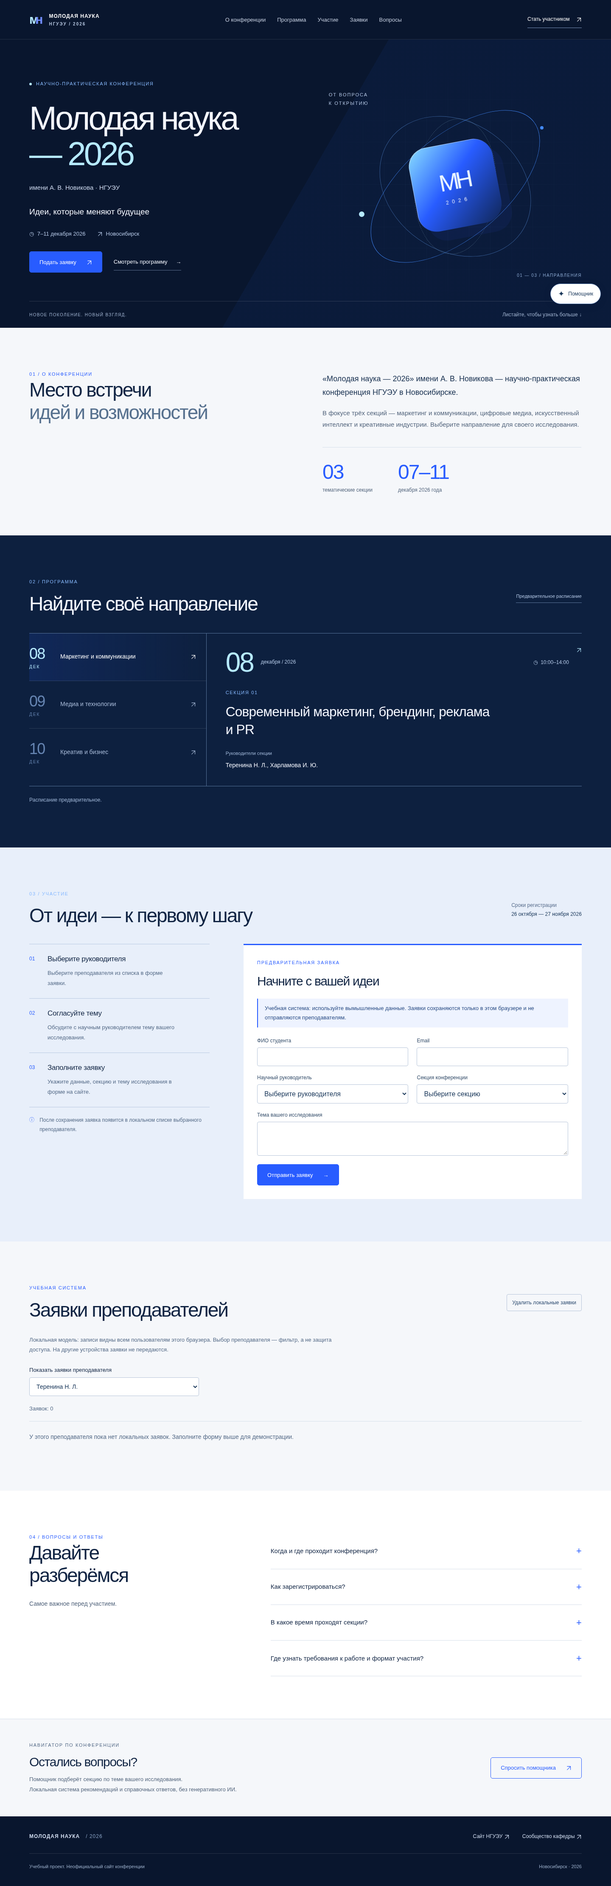
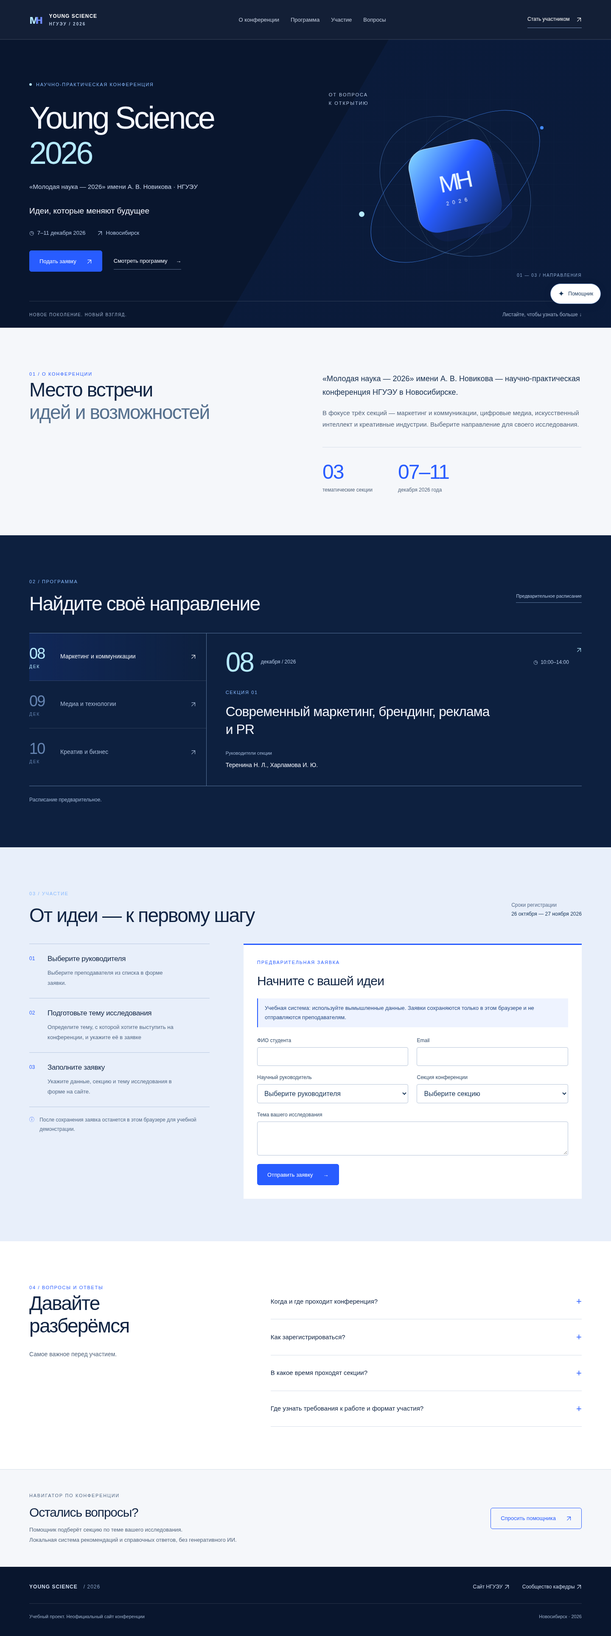
Finalize Young Science branding, sticky navigation and separate demo management page

diff --git a/src/styles.css b/src/styles.css
@@ -1,12 +1,12 @@
-@import url('https://fonts.googleapis.com/css2?family=Onest:wght@400;500;600;700&family=Space+Grotesk:wght@400;500;600&display=swap');
+@import url('https://fonts.googleapis.com/css2?family=Onest:wght@400;500;600;700&family=Manrope:wght@400;500;600;700&display=swap');
 /* Full-bleed surfaces; only their inner content has a maximum width. */
 :root{font-family:Onest,Arial,sans-serif;color:#102443;background:#f3f5f8;font-synthesis:none;--navy:#09162e;--blue:#285cff;--ice:#b6eaff;--muted:#5b6b83;--line:#d7dfea;--gutter:clamp(20px,4.8vw,92px)}
-*{box-sizing:border-box}body{margin:0}html{scroll-behavior:smooth;scroll-padding-top:24px}button,input,select,textarea{font:inherit}button,a,summary{-webkit-tap-highlight-color:transparent}button{cursor:pointer}a{color:inherit;text-decoration:none}button:focus-visible,a:focus-visible,summary:focus-visible,input:focus-visible,select:focus-visible,textarea:focus-visible{outline:3px solid #438bff;outline-offset:4px}h1,h2,h3,p{margin-top:0}h1,h2,h3{font-family:'Space Grotesk',Onest,Arial,sans-serif;font-weight:500;letter-spacing:-.045em}p{line-height:1.8}h2{font-size:clamp(28px,3.2vw,48px);line-height:1.15;margin-bottom:28px}h3{line-height:1.3}.container{width:100%;max-width:1550px;margin-inline:auto;padding-inline:var(--gutter);min-width:0}header,main,footer,main>section{width:100%;max-width:none;margin:0}header{background:var(--navy);color:#fff;border-bottom:1px solid #ffffff1c}.header-inner{min-height:92px;display:flex;align-items:center;justify-content:space-between;gap:26px}.brand{display:flex;align-items:center;gap:14px;font-size:12px;font-weight:600;letter-spacing:1px;white-space:nowrap}.brand small{display:block;font-size:10px;color:#b3c5df;letter-spacing:2px;margin-top:6px}.brand-icon{font-size:30px;letter-spacing:-8px;padding-right:8px;color:var(--ice)}.brand-icon span{color:#718cff}nav{display:flex;gap:27px;font-size:13px;color:#c4cee0}nav a:hover{color:var(--ice)}.header-link{font-size:12px;border-bottom:1px solid #7a93bb;padding:12px 0}.header-link span{margin-left:12px}.menu-toggle{display:none}
+*{box-sizing:border-box}body{margin:0}html{scroll-behavior:auto;scroll-padding-top:24px}button,input,select,textarea{font:inherit}button,a,summary{-webkit-tap-highlight-color:transparent}button{cursor:pointer}a{color:inherit;text-decoration:none}button:focus-visible,a:focus-visible,summary:focus-visible,input:focus-visible,select:focus-visible,textarea:focus-visible{outline:3px solid #438bff;outline-offset:4px}h1,h2,h3,p{margin-top:0}h1,h2,h3{font-family:Manrope,Onest,Arial,sans-serif;font-weight:500;letter-spacing:-.045em}p{line-height:1.8}h2{font-size:clamp(28px,3.2vw,48px);line-height:1.15;margin-bottom:28px}h3{line-height:1.3}.container{width:100%;max-width:1550px;margin-inline:auto;padding-inline:var(--gutter);min-width:0}header,main,footer,main>section{width:100%;max-width:none;margin:0}header{background:var(--navy);color:#fff;border-bottom:1px solid #ffffff1c}.header-inner{min-height:92px;display:flex;align-items:center;justify-content:space-between;gap:26px}.brand{display:flex;align-items:center;gap:14px;font-size:12px;font-weight:600;letter-spacing:1px;white-space:nowrap}.brand small{display:block;font-size:10px;color:#b3c5df;letter-spacing:2px;margin-top:6px}.brand-icon{font-size:30px;letter-spacing:-8px;padding-right:8px;color:var(--ice)}.brand-icon span{color:#718cff}nav{display:flex;gap:27px;font-size:13px;color:#c4cee0}nav a:hover{color:var(--ice)}.header-link{font-size:12px;border-bottom:1px solid #7a93bb;padding:12px 0}.header-link span{margin-left:12px}.menu-toggle{display:none}
 .hero{background:var(--navy);color:#f4f7ff;position:relative;overflow:hidden}.hero:before{content:'';position:absolute;inset:0;background:linear-gradient(120deg,transparent 50%,#153f941f 50%)}.hero .section-inner{position:relative;padding-top:76px}.hero-layout{display:grid;grid-template-columns:1.15fr 1fr;align-items:center;gap:20px;min-height:540px}.hero-copy{z-index:2;position:relative;padding-bottom:48px}.eyebrow{display:flex;align-items:center;gap:10px;font-size:11px;letter-spacing:1.7px;font-weight:500;line-height:1.8;color:#88baff}.dot{height:6px;width:6px;border-radius:50%;background:var(--ice)}h1{font-size:clamp(48px,5.4vw,86px);line-height:1.08;max-width:760px;margin:28px 0 24px;font-weight:500;letter-spacing:-.06em}.year{display:block;color:var(--ice);font-weight:400}.dedication{font-size:15px;color:#c9d5eb;margin-bottom:30px}.hero-description{font-size:19px;color:#f4f7ff;line-height:1.5;margin-bottom:30px}.hero-meta{display:flex;gap:28px;flex-wrap:wrap;font-size:13px;color:#b4c7e5;margin-bottom:34px}.hero-actions{display:flex;align-items:center;gap:27px;flex-wrap:wrap}.button{display:inline-flex;align-items:center;justify-content:space-between;gap:24px;min-height:50px;padding:15px 23px;border:1px solid var(--blue);border-radius:5px;background:var(--blue);color:white;font-size:13px;font-weight:500;transition:background .2s,transform .2s}.button:hover{background:#1646dc;transform:translateY(-2px)}.button:disabled{background:#c5cfdf;border-color:#c5cfdf;color:#405370;cursor:not-allowed;transform:none}.text-link{font-size:13px;border-bottom:1px solid #5a6d8d;padding-block:12px}.text-link span{margin-left:16px}.hero-bottom{border-top:1px solid #ffffff25;display:flex;align-items:center;justify-content:space-between;gap:20px;padding:24px 0;color:#9fb2cf;font-size:10px;letter-spacing:1.4px}.hero-bottom a{letter-spacing:0;font-size:12px}
 /* An offset orbital instrument, rather than an isolated decorative planet. */
-.science-art{height:490px;position:relative;min-width:0;isolation:isolate}.signal-grid{position:absolute;inset:-60px -70px;background-image:linear-gradient(#8fb4ed10 1px,transparent 1px),linear-gradient(90deg,#8fb4ed10 1px,transparent 1px);background-size:50px 50px;mask-image:radial-gradient(ellipse,#000,transparent 70%)}.signal-ring{position:absolute;width:380px;height:380px;left:50%;top:50%;border:1px solid #6ba9ff75;border-radius:50%;transform:translate(-50%,-50%) rotate(-30deg) scaleY(.65)}.ring-a{width:480px;height:480px;border-color:#438bff;transform:translate(-50%,-50%) rotate(-40deg) scaleY(.5)}.ring-b{transform:translate(-50%,-50%) rotate(35deg) scaleY(.8)}.ring-c{width:320px;height:320px;transform:translate(-50%,-50%) rotate(95deg) scaleY(.6);border-style:dashed;border-color:#b6eaff60}.signal-core{position:absolute;left:50%;top:50%;width:200px;height:200px;transform:translate(-50%,-50%) rotate(-12deg);border-radius:45px;background:linear-gradient(135deg,#8adfff,#285cff 45%,#102656);display:flex;flex-direction:column;align-items:center;justify-content:center;box-shadow:inset 1px 1px #ffffff80,20px 25px 0 #285cff12}.signal-core span{font-family:'Space Grotesk',Onest,sans-serif;font-size:56px;font-weight:400;letter-spacing:-7px;color:#ecf8ff}.signal-core small{font-size:12px;letter-spacing:8px;margin-top:8px}.signal-node{position:absolute;width:13px;height:13px;background:var(--ice);border-radius:50%}.node-a{left:12%;top:62%}.node-b{right:15%;top:21%;width:8px;height:8px;background:#438bff}.signal-label{position:absolute;left:0;top:20px;font-size:11px;color:#b4c7e5;line-height:1.8;letter-spacing:2px}.signal-index{position:absolute;bottom:30px;right:0;color:#8aa7cf;font-size:10px;letter-spacing:1.5px}.signal-core{animation:instrument 10s ease-in-out infinite}@keyframes instrument{50%{transform:translate(-50%,-54%) rotate(-8deg)}}
-.section .section-inner{padding-block:100px}.about{background:#f5f7fa}.about .section-inner{display:grid;grid-template-columns:1fr 1fr;gap:80px}.about .eyebrow,.faq .eyebrow{color:#285cff}.about h2{max-width:520px}.about h2 span{color:#57718f}.about-text{padding-top:4px;max-width:610px}.about-text p{color:#52647c;font-size:15px}.about-text p:first-child{color:#152e4e;font-size:18px}.stats{display:flex;gap:60px;margin-top:40px;padding-top:30px;border-top:1px solid var(--line)}.stats strong{display:block;color:#285cff;font-family:'Space Grotesk',Onest,sans-serif;font-size:48px;font-weight:400;letter-spacing:-2px}.stats span{display:block;font-size:12px;color:#52647c;margin-top:8px}
-.program{background:#0d203f;color:#f4f7ff}.section-heading{display:flex;justify-content:space-between;align-items:center;gap:30px;margin-bottom:32px}.section-heading h2{margin:15px 0 0;max-width:650px}.badge{font-size:11px;padding:9px 0;border-bottom:1px solid #5a759b;color:#b5c9e7;white-space:nowrap}.program-layout{display:grid;grid-template-columns:minmax(220px,.85fr) minmax(0,1.8fr);border-top:1px solid #56739a;border-bottom:1px solid #56739a;margin-top:42px}.tabs{display:flex;flex-direction:column;border-right:1px solid #56739a}.tabs button{display:flex;align-items:center;gap:22px;width:100%;min-height:112px;padding:22px 24px 22px 0;text-align:left;border:0;border-bottom:1px solid #ffffff20;background:none;color:#a8bbd9;transition:color .2s,background .2s}.tabs button:last-child{border-bottom:0}.tabs button[aria-selected=true]{color:#fff;background:linear-gradient(90deg,#285cff22,transparent)}.tab-date{font-family:'Space Grotesk',Onest,sans-serif;font-size:36px;letter-spacing:-2px;font-weight:400;min-width:51px;color:#6584b1}.tab-date small{font-family:Onest,sans-serif;font-size:10px;display:block;letter-spacing:2px;margin-top:4px}.tabs button[aria-selected=true] .tab-date{color:var(--ice)}.tab-label{font-size:14px;line-height:1.7}.tabs b{font-weight:400;margin-left:auto}.program-card{display:flex;flex-direction:column;gap:30px;padding:36px 0 36px 45px;position:relative;min-width:0;animation:panel .25s ease}.date-block{display:flex;align-items:center;flex-wrap:wrap;gap:18px;color:#b4c9e7;font-size:12px;padding-right:30px}.date-block strong{font-family:'Space Grotesk',Onest,sans-serif;font-weight:400;font-size:64px;line-height:1;color:var(--ice);letter-spacing:-3px}.date-block>span{max-width:100px;line-height:1.7}.date-block>div{margin-left:auto}.program-detail{max-width:640px;min-width:0}.program-detail h3{font-size:clamp(23px,2.2vw,32px);margin:15px 0 25px;letter-spacing:-.025em}.leaders>span{font-size:11px;color:#9fb6d7}.leaders p{font-size:14px;margin:8px 0 0}.card-arrow{position:absolute;right:0;top:30px;color:var(--ice)}.note{font-size:12px;color:#9fb6d7;line-height:1.8;margin:22px 0 0}@keyframes panel{from{opacity:.5}to{opacity:1}}
+.science-art{height:490px;position:relative;min-width:0;isolation:isolate}.signal-grid{position:absolute;inset:-60px -70px;background-image:linear-gradient(#8fb4ed10 1px,transparent 1px),linear-gradient(90deg,#8fb4ed10 1px,transparent 1px);background-size:50px 50px;mask-image:radial-gradient(ellipse,#000,transparent 70%)}.signal-ring{position:absolute;width:380px;height:380px;left:50%;top:50%;border:1px solid #6ba9ff75;border-radius:50%;transform:translate(-50%,-50%) rotate(-30deg) scaleY(.65)}.ring-a{width:480px;height:480px;border-color:#438bff;transform:translate(-50%,-50%) rotate(-40deg) scaleY(.5)}.ring-b{transform:translate(-50%,-50%) rotate(35deg) scaleY(.8)}.ring-c{width:320px;height:320px;transform:translate(-50%,-50%) rotate(95deg) scaleY(.6);border-style:dashed;border-color:#b6eaff60}.signal-core{position:absolute;left:50%;top:50%;width:200px;height:200px;transform:translate(-50%,-50%) rotate(-12deg);border-radius:45px;background:linear-gradient(135deg,#8adfff,#285cff 45%,#102656);display:flex;flex-direction:column;align-items:center;justify-content:center;box-shadow:inset 1px 1px #ffffff80,20px 25px 0 #285cff12}.signal-core span{font-family:Manrope,Onest,sans-serif;font-size:56px;font-weight:400;letter-spacing:-7px;color:#ecf8ff}.signal-core small{font-size:12px;letter-spacing:8px;margin-top:8px}.signal-node{position:absolute;width:13px;height:13px;background:var(--ice);border-radius:50%}.node-a{left:12%;top:62%}.node-b{right:15%;top:21%;width:8px;height:8px;background:#438bff}.signal-label{position:absolute;left:0;top:20px;font-size:11px;color:#b4c7e5;line-height:1.8;letter-spacing:2px}.signal-index{position:absolute;bottom:30px;right:0;color:#8aa7cf;font-size:10px;letter-spacing:1.5px}.signal-core{animation:instrument 10s ease-in-out infinite}@keyframes instrument{50%{transform:translate(-50%,-54%) rotate(-8deg)}}
+.section .section-inner{padding-block:100px}.about{background:#f5f7fa}.about .section-inner{display:grid;grid-template-columns:1fr 1fr;gap:80px}.about .eyebrow,.faq .eyebrow{color:#285cff}.about h2{max-width:520px}.about h2 span{color:#57718f}.about-text{padding-top:4px;max-width:610px}.about-text p{color:#52647c;font-size:15px}.about-text p:first-child{color:#152e4e;font-size:18px}.stats{display:flex;gap:60px;margin-top:40px;padding-top:30px;border-top:1px solid var(--line)}.stats strong{display:block;color:#285cff;font-family:Manrope,Onest,sans-serif;font-size:48px;font-weight:400;letter-spacing:-2px}.stats span{display:block;font-size:12px;color:#52647c;margin-top:8px}
+.program{background:#0d203f;color:#f4f7ff}.section-heading{display:flex;justify-content:space-between;align-items:center;gap:30px;margin-bottom:32px}.section-heading h2{margin:15px 0 0;max-width:650px}.badge{font-size:11px;padding:9px 0;border-bottom:1px solid #5a759b;color:#b5c9e7;white-space:nowrap}.program-layout{display:grid;grid-template-columns:minmax(220px,.85fr) minmax(0,1.8fr);border-top:1px solid #56739a;border-bottom:1px solid #56739a;margin-top:42px}.tabs{display:flex;flex-direction:column;border-right:1px solid #56739a}.tabs button{display:flex;align-items:center;gap:22px;width:100%;min-height:112px;padding:22px 24px 22px 0;text-align:left;border:0;border-bottom:1px solid #ffffff20;background:none;color:#a8bbd9;transition:color .2s,background .2s}.tabs button:last-child{border-bottom:0}.tabs button[aria-selected=true]{color:#fff;background:linear-gradient(90deg,#285cff22,transparent)}.tab-date{font-family:Manrope,Onest,sans-serif;font-size:36px;letter-spacing:-2px;font-weight:400;min-width:51px;color:#6584b1}.tab-date small{font-family:Onest,sans-serif;font-size:10px;display:block;letter-spacing:2px;margin-top:4px}.tabs button[aria-selected=true] .tab-date{color:var(--ice)}.tab-label{font-size:14px;line-height:1.7}.tabs b{font-weight:400;margin-left:auto}.program-card{display:flex;flex-direction:column;gap:30px;padding:36px 0 36px 45px;position:relative;min-width:0;animation:panel .25s ease}.date-block{display:flex;align-items:center;flex-wrap:wrap;gap:18px;color:#b4c9e7;font-size:12px;padding-right:30px}.date-block strong{font-family:Manrope,Onest,sans-serif;font-weight:400;font-size:64px;line-height:1;color:var(--ice);letter-spacing:-3px}.date-block>span{max-width:100px;line-height:1.7}.date-block>div{margin-left:auto}.program-detail{max-width:640px;min-width:0}.program-detail h3{font-size:clamp(23px,2.2vw,32px);margin:15px 0 25px;letter-spacing:-.025em}.leaders>span{font-size:11px;color:#9fb6d7}.leaders p{font-size:14px;margin:8px 0 0}.card-arrow{position:absolute;right:0;top:30px;color:var(--ice)}.note{font-size:12px;color:#9fb6d7;line-height:1.8;margin:22px 0 0}@keyframes panel{from{opacity:.5}to{opacity:1}}
 #participate{background:#e8effa}.registration{font-size:12px;color:#586d8c;line-height:1.8}.registration strong{font-weight:500;color:#183659}.participation-layout{display:grid;grid-template-columns:minmax(220px,.8fr) minmax(0,1.5fr);gap:80px;align-items:start;margin-top:40px}.steps{display:flex;flex-direction:column}.steps article{position:relative;border-top:1px solid #b9c9e2;padding:24px 0 24px 43px}.step-num{position:absolute;left:0;top:27px;color:#285cff;font-size:12px}.step-arrow{display:none}.steps h3{font-family:Onest,sans-serif;font-size:17px;letter-spacing:-.02em;margin:0 0 10px}.steps p{font-size:13px;color:#536986;max-width:300px;margin:0}.info-strip{display:flex;gap:12px;font-size:12px;color:#536986;line-height:1.8;border-top:1px solid #b9c9e2;padding-top:20px}.info-strip>span{color:#285cff}.application-card{background:#fff;border-top:3px solid #285cff;padding:32px;min-width:0}.application-card h3{font-size:30px;margin:13px 0 22px}.application-card .eyebrow{color:#285cff}.demo-notice{padding:12px 16px;background:#eef3ff;color:#274a83;border-left:2px solid #285cff;font-size:13px;line-height:1.7}.application-fields{border:0;padding:0;margin:24px 0 0;min-width:0;display:grid;grid-template-columns:minmax(0,1fr) minmax(0,1fr);gap:20px}.application-field{display:flex;flex-direction:column;gap:9px;font-size:12px;color:#344d6a;min-width:0}.application-field input,.application-field select,.application-field textarea{font:inherit;font-size:16px;width:100%;min-width:0;max-width:100%;padding:12px;border:1px solid #b6c4d9;border-radius:4px;background:#fff;color:#183659}.application-field textarea{resize:vertical}.application-fields:disabled input,.application-fields:disabled select,.application-fields:disabled textarea{background:#f5f7fa;color:#6d7d91}.full-width{grid-column:1/-1}.consent{display:flex;align-items:flex-start;gap:12px;font-size:12px;line-height:1.8;color:#52647c}.consent input{width:18px;height:18px;flex-shrink:0;accent-color:#285cff}.form-help,.form-status{font-size:12px;line-height:1.8;color:#405f85;overflow-wrap:anywhere}.form-help a{text-decoration:underline}.field-error{color:#9d2346;font-size:12px;line-height:1.7}.field-error:empty,.form-status:empty,.form-help:empty{display:none}.application-form [aria-invalid=true]{border-color:#ad3452}.application-form .button{width:fit-content;max-width:100%;text-align:left}.application-dialog{background:#fff;color:#102443;border:0;border-top:4px solid #285cff;padding:32px;width:min(450px,calc(100% - 32px))}.application-dialog::backdrop{background:#09162ed9}.application-dialog h3{font-size:28px}.application-dialog p{font-size:14px;line-height:1.8}
 .faq{background:#fff}.faq .section-inner{display:grid;grid-template-columns:1fr 1.5fr;gap:80px}.faq p{font-size:14px;color:#52647c}.faq-list details{border-bottom:1px solid var(--line)}summary{list-style:none;cursor:pointer;display:flex;justify-content:space-between;align-items:center;gap:20px;padding:24px 0;font-size:15px;line-height:1.6}summary::-webkit-details-marker{display:none}summary span{font-size:22px;font-weight:400;color:#285cff}details[open] summary span{transform:rotate(45deg)}details p{margin:0 25px 24px 0;max-width:650px}.assistant-banner{background:#f5f7fa;border-top:1px solid var(--line)}.assistant-banner .section-inner{display:flex;align-items:center;justify-content:space-between;gap:40px;padding-block:52px}.assistant-banner .eyebrow{color:#536986}.assistant-banner h2{font-size:30px;margin:12px 0}.assistant-banner p{font-size:13px;color:#52647c;max-width:650px;margin-bottom:0}.assistant-banner .button{flex-shrink:0;background:none;color:#285cff;border-color:#285cff}.assistant-banner .button:hover{background:#e8effa}
 footer{background:var(--navy);color:#d2def1}.footer-inner{display:flex;align-items:center;justify-content:space-between;flex-wrap:wrap;gap:32px;padding-block:40px}.footer-links{display:flex;gap:30px;font-size:12px}.footer-year{font-weight:400;color:#8aa3c5}.footer-bottom{width:100%;display:flex;justify-content:space-between;gap:20px;border-top:1px solid #ffffff20;padding-top:24px;font-size:11px;color:#9cb0cb}
@@ -19,3 +19,13 @@ footer{background:var(--navy);color:#d2def1}.footer-inner{display:flex;align-ite
 @media(prefers-reduced-motion:reduce){html{scroll-behavior:auto}*,*:before,*:after{animation:none!important;transition:none!important}}
 
 .applications{background:#f5f7fa}.applications .eyebrow{color:#285cff}.applications-notice{max-width:760px;color:#536986;font-size:13px}.supervisor-filter{display:flex;flex-direction:column;gap:10px;font-size:13px;max-width:400px;margin-top:28px}.supervisor-filter select,.applications-table select{background:#fff;border:1px solid #b6c4d9;color:#183659;padding:12px;border-radius:4px;min-width:0;width:100%;font-size:14px}.applications-count{font-size:13px;color:#536986;margin:18px 0}.clear-applications{border:1px solid #b6c4d9;background:none;color:#29486e;padding:12px;border-radius:4px;font-size:12px}.empty-applications{border-top:1px solid var(--line);padding-top:24px;font-size:14px;color:#536986}.applications-table{border-collapse:collapse;width:100%;table-layout:fixed;font-size:13px}.applications-table th{text-align:left;font-weight:500;padding:15px;border-bottom:2px solid #b6c4d9;color:#536986}.applications-table td{padding:20px 15px;border-bottom:1px solid var(--line);vertical-align:top;overflow-wrap:anywhere;line-height:1.7}.applications-table td strong,.applications-table td span,.applications-table td small{display:block}.applications-table td strong{font-weight:500}.applications-table td span{color:#536986;font-size:12px;margin-top:8px}.applications-table td small{color:#536986;font-size:10px;margin-top:8px}.applications-table th:nth-child(1){width:25%}.applications-table th:nth-child(2){width:35%}.applications-table th:nth-child(3){width:18%}.applications-table th:nth-child(4){width:22%}@media(max-width:768px){.applications-table,.applications-table tbody,.applications-table tr,.applications-table td{display:block;width:100%}.applications-table thead{position:absolute;clip-path:inset(50%);width:1px;height:1px;overflow:hidden}.applications-table tr{padding:18px;background:#fff;border-top:2px solid #285cff;margin-bottom:18px}.applications-table td{padding:12px 0;border-bottom:1px solid var(--line)}.applications-table td:before{content:attr(data-label);display:block;color:#536986;font-size:11px;margin-bottom:8px}.applications-table td:last-child{border-bottom:0}.applications-table td small{font-size:11px}.clear-applications{font-size:12px}}
+
+/* Final typography and sticky navigation share the same layout system. */
+html{scroll-padding-top:calc(var(--header-height,92px) + 20px)}
+header{position:sticky;top:0;z-index:20;background:#09162ef5;box-shadow:0 1px 0 #ffffff14}
+h1{font-weight:500;font-size:clamp(46px,5.1vw,80px);line-height:1.12;letter-spacing:-.055em}
+h2{font-weight:500;letter-spacing:-.04em}h3{font-weight:500;letter-spacing:-.025em}
+.dedication{max-width:560px;line-height:1.8}.chat{z-index:40}.chat-trigger{z-index:30}
+.manage-intro{background:#e8effa;padding-block:55px}.manage-intro h1{font-size:clamp(30px,4vw,48px);margin:18px 0}.manage-intro p{max-width:720px;color:#52647c;font-size:14px;margin-bottom:0}.manage-footer{min-height:160px}
+@media(max-width:768px){h1{font-size:clamp(43px,8vw,62px)}header nav{max-height:calc(100dvh - 100px);overflow-y:auto}.header-inner{min-height:80px}.manage-intro{padding-block:36px}.manage-intro h1{font-size:32px}}
+@media(max-width:768px){header nav{position:absolute;top:100%;left:0;margin-top:0;padding:0 var(--gutter) 18px;background:#09162e;border-bottom:1px solid #577196;box-shadow:0 12px 24px #09162e26}}

diff --git a/src/main.jsx b/src/main.jsx
@@ -2,13 +2,14 @@ import React, { useState, useRef, useEffect } from 'react';
 import { createRoot } from 'react-dom/client';
 import './styles.css';
 import ApplicationForm from './ApplicationForm.jsx';
-import ApplicationsPanel from './ApplicationsPanel.jsx';
+import { useStickyHeader } from './useStickyHeader.js';
 import { sections, faq } from './conference.js';
 import { answer } from './assistant.js';
 
 function Arrow(){return <svg className="arrow-icon" viewBox="0 0 16 16" fill="none" aria-hidden="true"><path d="M3 13 13 3M3 3h10v10" stroke="currentColor" strokeWidth="1.4"/></svg>;}
 const prompts = ['Как зарегистрироваться?', 'Какие есть секции?', 'Когда проходит конференция?', 'Помоги выбрать секцию'];
 function App(){
+ useStickyHeader();
  const [menuOpen,setMenuOpen]=useState(false);
  const menuTrigger=useRef(null);
  const [active,setActive]=useState(0), [open,setOpen]=useState(false), [input,setInput]=useState('');
@@ -20,16 +21,15 @@ function App(){
  function send(q){if(!q.trim())return;setMessages(m=>[...m,{role:'user',text:q.trim()},{role:'bot',text:answer(q)}]);setInput('');field.current?.focus();}
  const s=sections[active];
  return <>
- <header><div className="container header-inner"><a className="brand" href="#home" aria-label="Молодая наука — на главную"><span className="brand-icon">м<span>н</span></span><span>МОЛОДАЯ НАУКА<small>НГУЭУ / 2026</small></span></a><button ref={menuTrigger} className="menu-toggle" aria-expanded={menuOpen} aria-controls="main-navigation" onClick={()=>setMenuOpen(v=>!v)}>{menuOpen?'Закрыть меню':'Меню'} <span aria-hidden="true">{menuOpen?'×':'☰'}</span></button><nav id="main-navigation" className={menuOpen?'is-open':''} aria-label="Основная навигация" onClick={e=>{if(e.target.closest('a'))setMenuOpen(false);}} onKeyDown={e=>{if(e.key==='Escape'){setMenuOpen(false);menuTrigger.current?.focus();}}}><a href="#about">О конференции</a><a href="#program">Программа</a><a href="#participate">Участие</a><a href="#applications">Заявки</a><a href="#faq">Вопросы</a></nav><a className="header-link" href="#participate">Стать участником <span><Arrow/></span></a></div></header>
+ <header><div className="container header-inner"><a className="brand" href="#home" aria-label="Young Science 2026 — на главную"><span className="brand-icon">м<span>н</span></span><span>YOUNG SCIENCE<small>НГУЭУ / 2026</small></span></a><button ref={menuTrigger} className="menu-toggle" aria-expanded={menuOpen} aria-controls="main-navigation" onClick={()=>setMenuOpen(v=>!v)}>{menuOpen?'Закрыть меню':'Меню'} <span aria-hidden="true">{menuOpen?'×':'☰'}</span></button><nav id="main-navigation" className={menuOpen?'is-open':''} aria-label="Основная навигация" onClick={e=>{const link=e.target.closest('a');if(!link)return;e.preventDefault();setMenuOpen(false);requestAnimationFrame(()=>{const header=document.querySelector('header');document.documentElement.style.setProperty('--header-height',`${header.getBoundingClientRect().height}px`);if(location.hash!==link.hash)history.pushState(null,'',link.hash);const target=document.querySelector(link.hash);if(target){window.scrollTo({top:target.getBoundingClientRect().top+window.scrollY-header.getBoundingClientRect().height-20,behavior:matchMedia('(prefers-reduced-motion: reduce)').matches?'instant':'smooth'});}});}} onKeyDown={e=>{if(e.key==='Escape'){setMenuOpen(false);menuTrigger.current?.focus();}}}><a href="#about">О конференции</a><a href="#program">Программа</a><a href="#participate">Участие</a><a href="#faq">Вопросы</a></nav><a className="header-link" href="#participate">Стать участником <span><Arrow/></span></a></div></header>
  <main>
- <section className="hero" id="home"><div className="container section-inner"><div className="hero-layout"><div className="hero-copy"><div className="eyebrow"><span className="dot"/> НАУЧНО-ПРАКТИЧЕСКАЯ КОНФЕРЕНЦИЯ</div><h1>Молодая наука<span className="year">— 2026</span></h1><p className="dedication">имени А. В. Новикова · НГУЭУ</p><p className="hero-description">Идеи, которые меняют будущее</p><div className="hero-meta"><span>◷ &nbsp;7–11 декабря 2026</span><span><Arrow/> &nbsp;Новосибирск</span></div><div className="hero-actions"><a className="button" href="#participate">Подать заявку <span><Arrow/></span></a><a className="text-link" href="#program">Смотреть программу <span>→</span></a></div></div><div className="science-art" aria-hidden="true"><div className="signal-grid"/><div className="signal-ring ring-a"/><div className="signal-ring ring-b"/><div className="signal-ring ring-c"/><div className="signal-core"><span>МН</span><small>2026</small></div><div className="signal-node node-a"/><div className="signal-node node-b"/><span className="signal-label">ОТ ВОПРОСА<br/>К ОТКРЫТИЮ</span><span className="signal-index">01 — 03 / НАПРАВЛЕНИЯ</span></div></div><div className="hero-bottom"><span>НОВОЕ ПОКОЛЕНИЕ. НОВЫЙ ВЗГЛЯД.</span><a href="#about">Листайте, чтобы узнать больше ↓</a></div></div></section>
+ <section className="hero" id="home"><div className="container section-inner"><div className="hero-layout"><div className="hero-copy"><div className="eyebrow"><span className="dot"/> НАУЧНО-ПРАКТИЧЕСКАЯ КОНФЕРЕНЦИЯ</div><h1>Young Science<span className="year">2026</span></h1><p className="dedication">«Молодая наука — 2026» имени А. В. Новикова · НГУЭУ</p><p className="hero-description">Идеи, которые меняют будущее</p><div className="hero-meta"><span>◷ &nbsp;7–11 декабря 2026</span><span><Arrow/> &nbsp;Новосибирск</span></div><div className="hero-actions"><a className="button" href="#participate">Подать заявку <span><Arrow/></span></a><a className="text-link" href="#program">Смотреть программу <span>→</span></a></div></div><div className="science-art" aria-hidden="true"><div className="signal-grid"/><div className="signal-ring ring-a"/><div className="signal-ring ring-b"/><div className="signal-ring ring-c"/><div className="signal-core"><span>МН</span><small>2026</small></div><div className="signal-node node-a"/><div className="signal-node node-b"/><span className="signal-label">ОТ ВОПРОСА<br/>К ОТКРЫТИЮ</span><span className="signal-index">01 — 03 / НАПРАВЛЕНИЯ</span></div></div><div className="hero-bottom"><span>НОВОЕ ПОКОЛЕНИЕ. НОВЫЙ ВЗГЛЯД.</span><a href="#about">Листайте, чтобы узнать больше ↓</a></div></div></section>
  <section id="about" className="section about"><div className="container section-inner"><div><div className="eyebrow">01 / О КОНФЕРЕНЦИИ</div><h2>Место встречи<br/><span>идей и возможностей</span></h2></div><div className="about-text"><p>«Молодая наука — 2026» имени А. В. Новикова — научно-практическая конференция НГУЭУ в Новосибирске.</p><p>В фокусе трёх секций — маркетинг и коммуникации, цифровые медиа, искусственный интеллект и креативные индустрии. Выберите направление для своего исследования.</p><div className="stats"><div><strong>03</strong><span>тематические секции</span></div><div><strong>07–11</strong><span>декабря 2026 года</span></div></div></div></div></section>
  <section id="program" className="section program"><div className="container section-inner"><div className="section-heading"><div><div className="eyebrow">02 / ПРОГРАММА</div><h2>Найдите своё направление</h2></div><span className="badge">Предварительное расписание</span></div><div className="program-layout"><div className="tabs" role="tablist" aria-label="Секции конференции">{sections.map((x,i)=><button key={x.day} id={`tab-${i}`} role="tab" aria-selected={i===active} aria-controls={`panel-${i}`} tabIndex={i===active?0:-1} onClick={()=>setActive(i)} onKeyDown={e=>{let n;if(e.key==='ArrowRight')n=(i+1)%3;if(e.key==='ArrowLeft')n=(i+2)%3;if(e.key==='Home')n=0;if(e.key==='End')n=2;if(n!==undefined){e.preventDefault();setActive(n);document.getElementById(`tab-${n}`).focus();}}}><span className="tab-date">{x.day}<small>ДЕК</small></span><span className="tab-label">{x.tag}</span><b><Arrow/></b></button>)}</div><div className="program-card" role="tabpanel" id={`panel-${active}`} aria-labelledby={`tab-${active}`}><div className="date-block"><strong>{s.day}</strong><span>декабря / 2026</span><div>◷ &nbsp;10:00–14:00</div></div><div className="program-detail"><div className="eyebrow">СЕКЦИЯ 0{active+1}</div><h3>{s.title}</h3><div className="leaders"><span>Руководители секции</span><p>{s.people}</p></div></div><span className="card-arrow" aria-hidden="true"><Arrow/></span></div></div><p className="note">Расписание предварительное.</p></div></section>
- <section id="participate" className="section"><div className="container section-inner"><div className="eyebrow">03 / УЧАСТИЕ</div><div className="section-heading"><h2>От идеи — к первому шагу</h2><p className="registration">Сроки регистрации<br/><strong>26 октября — 27 ноября 2026</strong></p></div><div className="participation-layout"><div className="participation-guide"><div className="steps">{[['Выберите руководителя','Выберите преподавателя из списка в форме заявки.'],['Согласуйте тему','Обсудите с научным руководителем тему вашего исследования.'],['Заполните заявку','Укажите данные, секцию и тему исследования в форме на сайте.']].map(([t,d],i)=><article key={t}><span className="step-num">0{i+1}</span><span className="step-arrow"><Arrow/></span><h3>{t}</h3><p>{d}</p></article>)}</div><div className="info-strip"><span>ⓘ</span><p>После сохранения заявка появится в локальном списке выбранного преподавателя.</p></div></div><ApplicationForm/></div></div></section>
- <ApplicationsPanel/>
+ <section id="participate" className="section"><div className="container section-inner"><div className="eyebrow">03 / УЧАСТИЕ</div><div className="section-heading"><h2>От идеи — к первому шагу</h2><p className="registration">Сроки регистрации<br/><strong>26 октября — 27 ноября 2026</strong></p></div><div className="participation-layout"><div className="participation-guide"><div className="steps">{[['Выберите руководителя','Выберите преподавателя из списка в форме заявки.'],['Подготовьте тему исследования','Определите тему, с которой хотите выступить на конференции, и укажите её в заявке'],['Заполните заявку','Укажите данные, секцию и тему исследования в форме на сайте.']].map(([t,d],i)=><article key={t}><span className="step-num">0{i+1}</span><span className="step-arrow"><Arrow/></span><h3>{t}</h3><p>{d}</p></article>)}</div><div className="info-strip"><span>ⓘ</span><p>После сохранения заявка останется в этом браузере для учебной демонстрации.</p></div></div><ApplicationForm/></div></div></section>
  <section id="faq" className="section faq"><div className="container section-inner"><div><div className="eyebrow">04 / ВОПРОСЫ И ОТВЕТЫ</div><h2>Давайте<br/>разберёмся</h2><p>Самое важное перед участием.</p></div><div className="faq-list">{faq.map(([q,a])=><details key={q}><summary>{q}<span aria-hidden="true">+</span></summary><p>{a}</p></details>)}</div></div></section>
  <section className="assistant-banner"><div className="container section-inner"><div><div className="eyebrow">НАВИГАТОР ПО КОНФЕРЕНЦИИ</div><h2>Остались вопросы?</h2><p>Помощник подберёт секцию по теме вашего исследования.<br/>Локальная система рекомендаций и справочных ответов, без генеративного ИИ.</p></div><button className="button" onClick={()=>setOpen(true)}>Спросить помощника <span><Arrow/></span></button></div></section>
- </main><footer><div className="container footer-inner"><a className="brand" href="#home">МОЛОДАЯ НАУКА <span className="footer-year">/ 2026</span></a><div className="footer-links"><a href="https://nsuem.ru/" target="_blank" rel="noreferrer">Сайт НГУЭУ <Arrow/></a><a href="https://vk.ru/mriso_nsuem" target="_blank" rel="noopener noreferrer">Сообщество кафедры <Arrow/></a></div><div className="footer-bottom"><span>Учебный проект. Неофициальный сайт конференции</span><span>Новосибирск · 2026</span></div></div></footer>
+ </main><footer><div className="container footer-inner"><a className="brand" href="#home">YOUNG SCIENCE <span className="footer-year">/ 2026</span></a><div className="footer-links"><a href="https://nsuem.ru/" target="_blank" rel="noreferrer">Сайт НГУЭУ <Arrow/></a><a href="https://vk.ru/mriso_nsuem" target="_blank" rel="noopener noreferrer">Сообщество кафедры <Arrow/></a></div><div className="footer-bottom"><span>Учебный проект. Неофициальный сайт конференции</span><span>Новосибирск · 2026</span></div></div></footer>
  <button ref={trigger} className="chat-trigger" onClick={()=>open?close():setOpen(true)} aria-label={open?'Закрыть помощника':'Открыть помощника'} aria-expanded={open} aria-controls="chat-panel">{open?'×':'✦'}<span>Помощник</span></button>
  {open&&<aside id="chat-panel" className="chat" aria-label="Прототип помощника" onKeyDown={e=>{if(e.key==='Escape')close();}}><div className="chat-head"><div><strong>✦ Помощник конференции</strong><small>Локальная система рекомендаций · без генеративного ИИ</small></div><button onClick={close} aria-label="Закрыть чат">×</button></div><div className="chat-log" ref={log} role="log" aria-live="polite" aria-relevant="additions">{messages.map((m,i)=><div key={i} className={`message ${m.role}`}>{m.text}</div>)}</div><div className="quick-questions">{prompts.map(q=><button key={q} onClick={()=>send(q)}>{q}</button>)}</div><form onSubmit={e=>{e.preventDefault();send(input);}}><label className="sr-only" htmlFor="question">Ваш вопрос</label><input ref={field} id="question" value={input} onChange={e=>setInput(e.target.value)} placeholder="Тема исследования или вопрос…" maxLength={500}/><button aria-label="Отправить вопрос" disabled={!input.trim()}>↑</button></form><p className="chat-note">Только справочная информация. О приёме заявок — в разделе «Участие».</p></aside>}
  </>;

diff --git a/src/conference.js b/src/conference.js
@@ -5,7 +5,7 @@ export const sections = [
 ];
 export const faq = [
   ['Когда и где проходит конференция?', 'Конференция проходит 7–11 декабря 2026 года в Новосибирске, НГУЭУ.'],
-  ['Как зарегистрироваться?', 'Заполните форму в разделе «Участие»: укажите вымышленные ФИО, email, руководителя, секцию и тему. Заявка сохраняется только в этом браузере и появится в разделе «Заявки преподавателей». Это учебный сценарий, без реальной регистрации. Сроки подачи заявок конференции: 26 октября — 27 ноября 2026 года.'],
+  ['Как зарегистрироваться?', 'Заполните форму в разделе «Участие»: укажите вымышленные ФИО, email, руководителя, секцию и тему. Заявка сохраняется только в этом браузере и доступна на отдельной демонстрационной странице управления заявками. Это учебный сценарий, без реальной регистрации. Сроки подачи заявок конференции: 26 октября — 27 ноября 2026 года.'],
   ['В какое время проходят секции?', 'Все три секции запланированы на 10:00–14:00. Расписание предварительное.'],
   ['Где узнать требования к работе и формат участия?', 'Требования к работе, формат участия и другие правила пока не подтверждены. Уточните их у научного руководителя или преподавателя.'],
 ];

diff --git a/src/application.js b/src/application.js
@@ -27,7 +27,7 @@ export function saveApplication(data,storage = localStorage) {
   if(Object.keys(validateApplication(data)).length) throw new Error('Проверьте обязательные поля.');
   const clean = {name:data.name.trim(), email:data.email.trim().toLowerCase(), supervisorId:data.supervisorId, sectionId:data.sectionId, topic:data.topic.trim()};
   const rows = readApplications(storage);
-  if(rows.some(x=>x.email.toLowerCase()===clean.email && x.supervisorId===clean.supervisorId && x.sectionId===clean.sectionId && x.topic.toLowerCase()===clean.topic.toLowerCase())) throw new Error('Такая заявка уже сохранена в этом браузере. Посмотрите раздел «Заявки преподавателей».');
+  if(rows.some(x=>x.email.toLowerCase()===clean.email && x.supervisorId===clean.supervisorId && x.sectionId===clean.sectionId && x.topic.toLowerCase()===clean.topic.toLowerCase())) throw new Error('Такая заявка уже сохранена в этом браузере. Повторная запись не создана.');
   if(rows.length>=1000) throw new Error('Лимит учебного хранилища достигнут. Удалите ненужные тестовые заявки.');
   const record = {...clean,id:crypto.randomUUID(),createdAt:new Date().toISOString(),status:'Новая'};
   writeApplications([...rows,record],storage);

diff --git a/src/manage.jsx b/src/manage.jsx
@@ -1,0 +1,10 @@
+import React from 'react';
+import {createRoot} from 'react-dom/client';
+import ApplicationsPanel from './ApplicationsPanel.jsx';
+import {useStickyHeader} from './useStickyHeader.js';
+import './styles.css';
+function ManagementPage(){
+ useStickyHeader();
+ return <><header><div className="container header-inner"><a className="brand" href={import.meta.env.BASE_URL}>YOUNG SCIENCE 2026</a><a className="text-link" href={import.meta.env.BASE_URL}>На сайт конференции →</a></div></header><main><section className="manage-intro"><div className="container"><div className="eyebrow">УЧЕБНАЯ ДЕМОНСТРАЦИЯ</div><h1>Управление заявками</h1><p>Это открытая локальная модель, а не защищённый кабинет. Используйте только вымышленные записи. Данные остаются в этом браузере и доступны его пользователям.</p></div></section><ApplicationsPanel/></main><footer className="manage-footer"><div className="container footer-inner"><span>Young Science 2026</span><div className="footer-bottom">Учебный проект. Неофициальный сайт конференции</div></div></footer></>;
+}
+createRoot(document.getElementById('root')).render(<ManagementPage/>);

diff --git a/index.html b/index.html
@@ -1,1 +1,1 @@
-<!doctype html><html lang="ru"><head><meta charset="UTF-8"/><meta name="viewport" content="width=device-width, initial-scale=1.0"/><meta name="theme-color" content="#080e22"/><meta name="description" content="Молодая наука — 2026 имени А. В. Новикова, НГУЭУ. Программа секций и информация об участии. Учебный неофициальный проект."/><title>Молодая наука — 2026 · НГУЭУ</title></head><body><div id="root"></div><script type="module" src="/src/main.jsx"></script></body></html>
+<!doctype html><html lang="ru"><head><meta charset="UTF-8"/><meta name="viewport" content="width=device-width, initial-scale=1.0"/><meta name="theme-color" content="#080e22"/><meta name="description" content="Молодая наука — 2026 имени А. В. Новикова, НГУЭУ. Программа секций и информация об участии. Учебный неофициальный проект."/><title>Young Science 2026 · НГУЭУ</title></head><body><div id="root"></div><script type="module" src="/src/main.jsx"></script></body></html>

diff --git a/src/useStickyHeader.js b/src/useStickyHeader.js
@@ -1,0 +1,10 @@
+import { useEffect } from 'react';
+// Keep native anchor navigation clear of the actual (including mobile) header.
+export function useStickyHeader(){
+ useEffect(()=>{
+  const header=document.querySelector('header');
+  const update=()=>document.documentElement.style.setProperty('--header-height',`${header.getBoundingClientRect().height}px`);
+  update();const observer=new ResizeObserver(update);observer.observe(header);
+  return()=>observer.disconnect();
+ },[]);
+}

diff --git a/vite.config.js b/vite.config.js
@@ -1,2 +1,9 @@
 import { defineConfig } from 'vite';
-export default defineConfig({ base: '/molodaya-nauka-2026/' });
+import { fileURLToPath } from 'node:url';
+export default defineConfig({
+  base: '/molodaya-nauka-2026/',
+  build: { rollupOptions: { input: {
+    main: fileURLToPath(new URL('./index.html',import.meta.url)),
+    manage: fileURLToPath(new URL('./manage.html',import.meta.url)),
+  } } },
+});

diff --git a/manage.html b/manage.html
@@ -1,0 +1,1 @@
+<!doctype html><html lang="ru"><head><meta charset="UTF-8"/><meta name="viewport" content="width=device-width, initial-scale=1.0"/><meta name="robots" content="noindex, nofollow"/><meta name="theme-color" content="#09162e"/><title>Учебные заявки · Young Science 2026</title></head><body><div id="root"></div><script type="module" src="/src/manage.jsx"></script></body></html>

diff --git a/README.md b/README.md
@@ -1,4 +1,4 @@
-# Молодая наука — 2026
+# Young Science 2026
 
 Учебный сайт для магистерской РГР. Неофициальный сайт конференции НГУЭУ.
 React + Vite, локальный помощник и система заявок в браузере. Реальная регистрация
@@ -17,8 +17,8 @@ npm run preview -- --port 4192
 ```
 
 Путь `/molodaya-nauka-2026/` задан в vite.config.js. Дизайн: full-width фоны,
-внутренние контейнеры, Space Grotesk/Onest (Google Fonts с системными резервами,
-для кириллицы Space Grotesk — Onest), синий, светлые и тёмные блоки, reduced motion.
+внутренние контейнеры, Manrope для заголовков и Onest для текста, кнопок и форм (Google Fonts
+с системными резервами), синий, светлые и тёмные блоки, reduced motion.
 
 ## Заявки
 
@@ -27,7 +27,7 @@ npm run preview -- --port 4192
 время и статус «Новая», сохраняется в localStorage. Только после успешной записи
 показывается модальное подтверждение, форма очищается.
 
-Раздел «Заявки преподавателей» фильтрует локальный список по выбранному
+Отдельная демонстрационная страница `manage.html` фильтрует локальный список по выбранному
 преподавателю. Статусы можно менять: Новая, На рассмотрении, Согласована,
 Отклонена. Изменения и записи остаются после обновления в том же браузере.
 Есть подтверждаемое удаление учебных записей, защита от совпадающих заявок,
@@ -44,6 +44,8 @@ npm run preview -- --port 4192
 - src/main.jsx — навигация, секции, программа, FAQ и чат.
 - src/ApplicationForm.jsx — форма, ошибки, модальное окно.
 - src/ApplicationsPanel.jsx — локальные таблицы и статусы.
+- src/manage.jsx, manage.html — отдельная страница управления.
+- src/useStickyHeader.js — измерение закреплённой шапки для якорей.
 - src/application.js — валидация, хранение, защита от повторов.
 - src/application-config.js — подтверждённые пользователем преподаватели.
 - src/conference.js — данные конференции и FAQ.
@@ -76,3 +78,19 @@ Settings → Pages → Source: GitHub Actions. Merge в main запускает 
 Адрес: https://rrrondddd.github.io/molodaya-nauka-2026/.
 Сохранение кода в отдельной ветке не обновляет сайт: требуется merge и успешный
 запуск deploy. При переименовании репозитория изменить base в vite.config.js.
+
+
+## Демонстрационная страница преподавателей
+
+Адрес: https://rrrondddd.github.io/molodaya-nauka-2026/manage.html.
+Локально — тот же base path с `manage.html` в конце. В обычном меню и на главной
+странице ссылки и таблиц нет. Страница доступна по прямому адресу, имеет
+`noindex, nofollow`, но это НЕ авторизация и НЕ защита доступа. Не хранить реальные
+персональные данные. Обе страницы используют один origin и один ключ localStorage.
+`manage.html` можно перезагружать и открывать напрямую: Vite собирает два HTML-входа,
+поэтому не требуется SPA fallback или изменение настроек Pages.
+
+Шапка закреплена сверху. ResizeObserver обновляет отступ якорей под фактическую
+высоту шапки. Мобильное меню раскрывается поверх контента, не сдвигая страницу.
+Браузерные тесты дополнительно проверяют sticky-позицию, свободный от шапки якорь,
+отсутствие таблиц на главной и весь сценарий перехода на manage.html и обратно.

diff --git a/docs/applications.md b/docs/applications.md
@@ -48,10 +48,12 @@
 1. Ввести «Тестовый Студент Пример», student@example.test, выбрать Теренину Н. Л.,
    первую секцию, тему «Тестовое исследование цифровых медиа».
 2. Нажать «Отправить заявку» — появится «Заявка сохранена!».
-3. Открыть «Заявки преподавателей» — запись видна у Теренины, у Харламовой её нет.
+3. Открыть отдельную страницу `manage.html` («Заявки преподавателей») — запись видна у Теренины, у Харламовой её нет.
 4. Выбрать статус «Согласована», обновить страницу — запись и статус остаются.
 5. Повторить такую же заявку — будет ошибка дублирования, второй строки не будет.
 6. Удалить тестовые записи через кнопку с подтверждением.
 
 Автоматизация этого сценария: `npm run test:form` при запущенном preview.
 Используются только синтетические данные и изолированные браузерные контексты.
+
+Главная страница не содержит таблиц и ссылки на управление; прямой адрес не является секретом или ограничением доступа.
